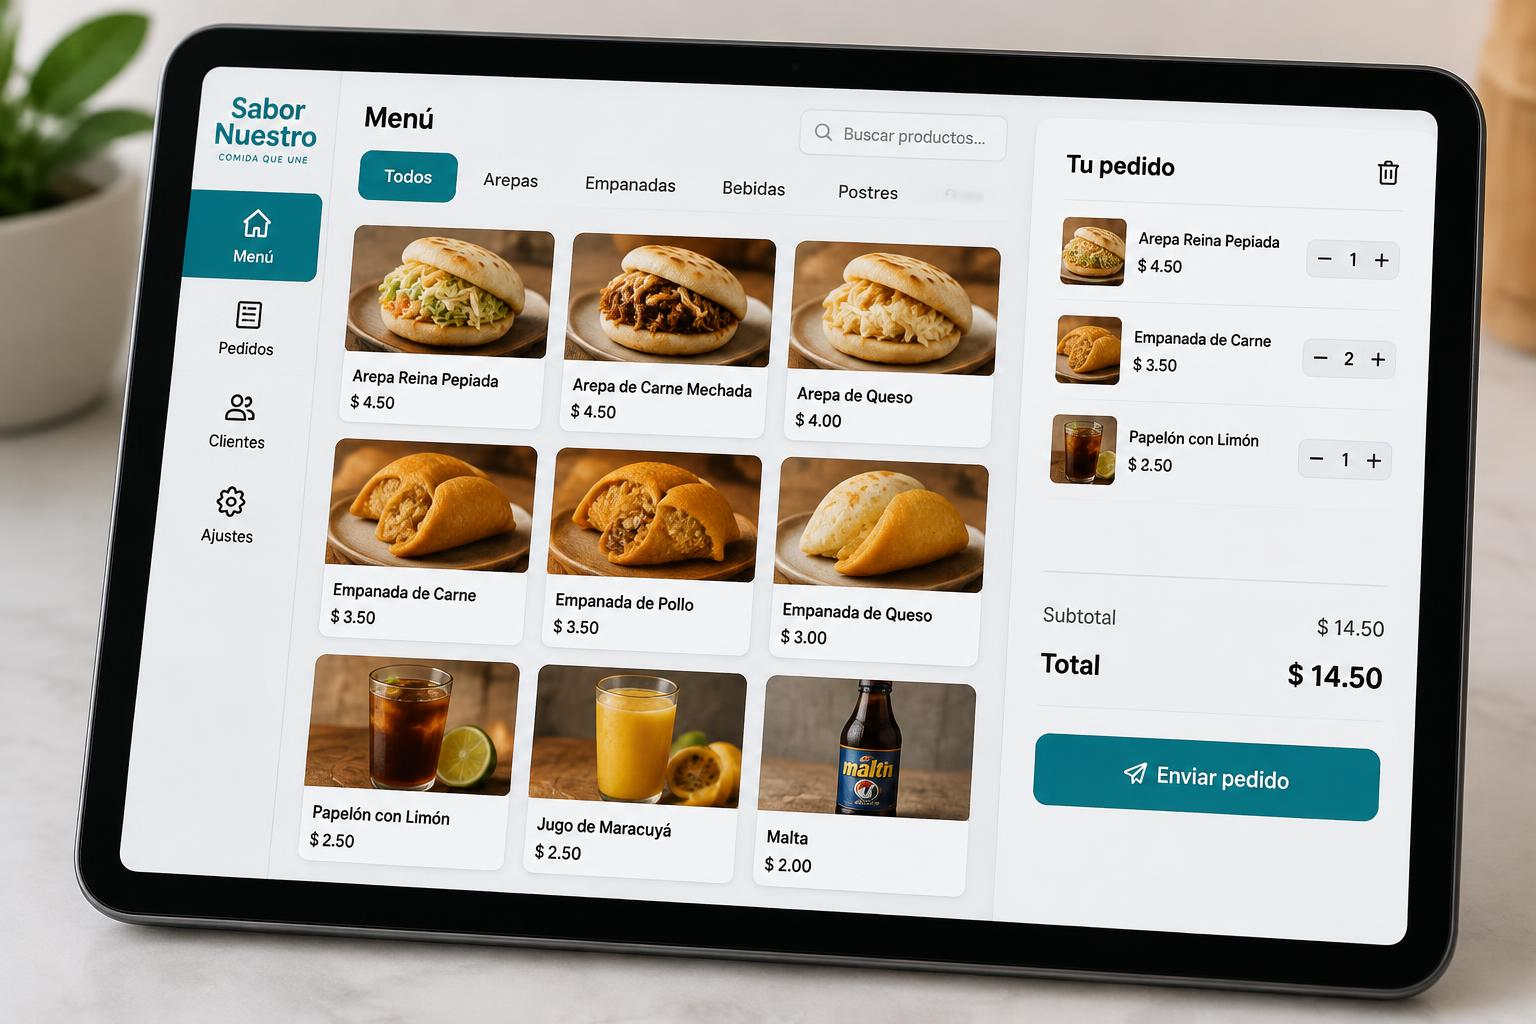
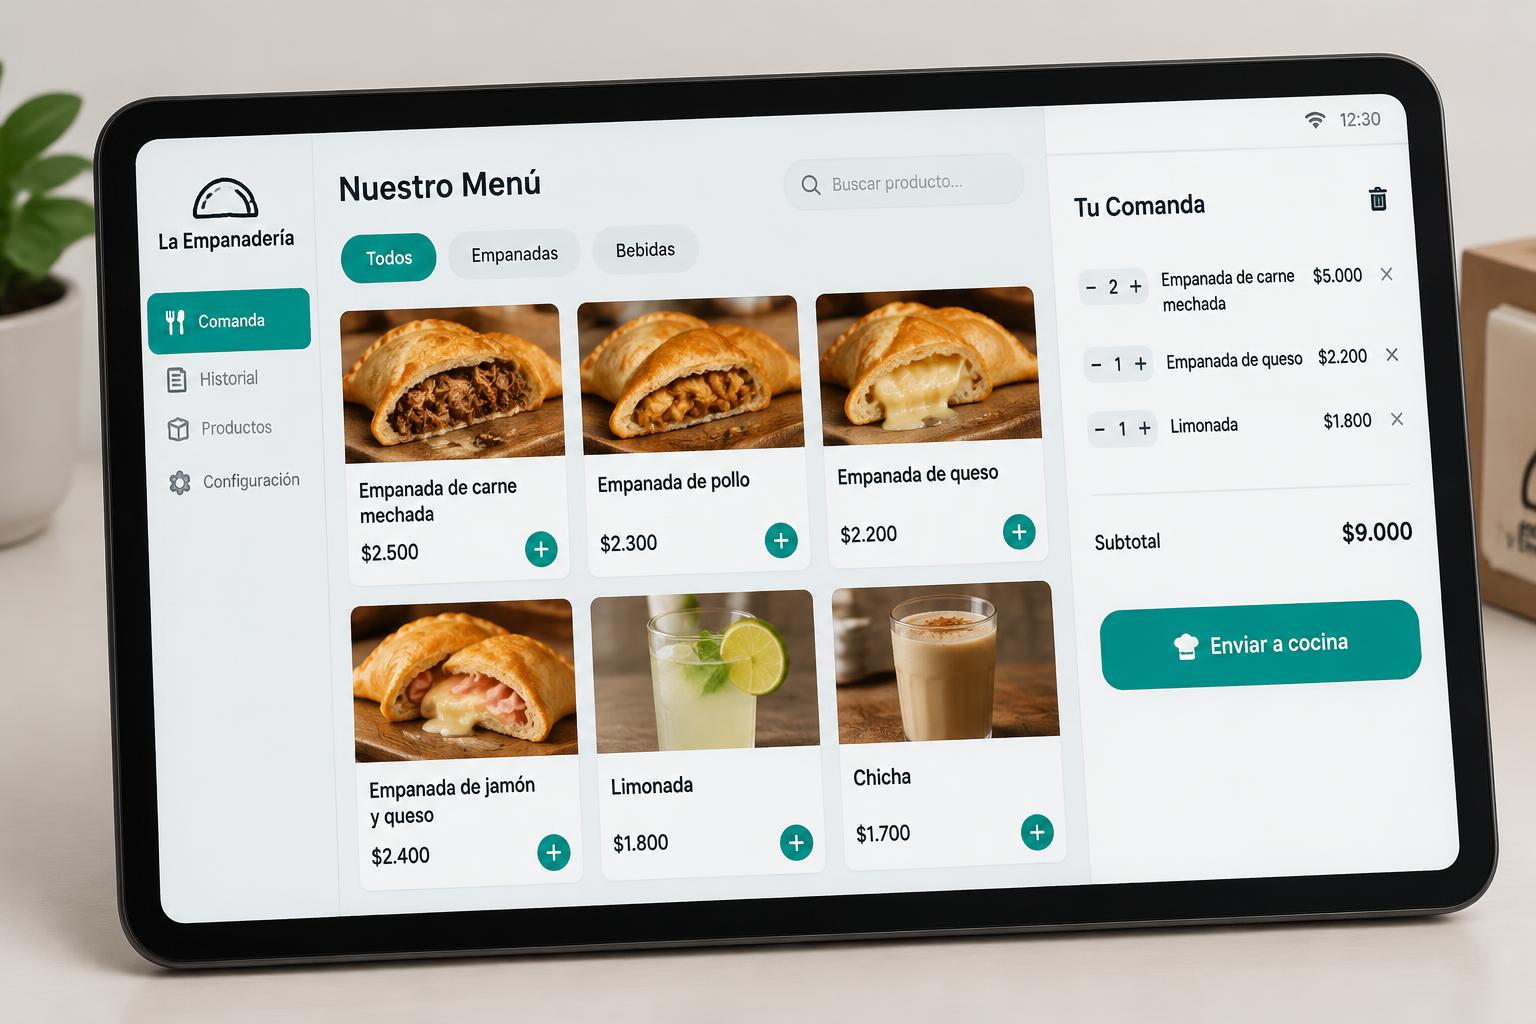
Switch examples to empanadas with filling sub-recipes, add kitchen kanban and event planning focus

diff --git a/src/lib/i18n.ts b/src/lib/i18n.ts
@@ -4,14 +4,14 @@ export const isLang = (v: string): v is Lang => (LANGS as readonly string[]).inc
 
 const es = {
   meta: {
-    title: "listo.menu — Pedidos, inventario y recetas para food trucks y kioscos",
-    description: "Toma pedidos rápido, descuenta inventario automáticamente por receta y planifica tus compras. Hecho para food trucks, arepas y kioscos.",
+    title: "listo.menu — Comandas, cocina, inventario y compras para negocios de comida",
+    description: "Lleva la comanda, organiza la cocina en un tablero, descuenta inventario por receta y sabe qué comprar para tus ventas y eventos. Para food trucks, empanaderías y kioscos.",
   },
   nav: { whatsapp: "Hablar por WhatsApp", lang: "English", langCode: "en" as Lang },
   hero: {
-    eyebrow: "Para food trucks, areperas y kioscos",
-    title: "Tus pedidos, tu inventario y tus recetas en un solo lugar",
-    body: "Vende, y listo.menu descuenta del inventario cada ingrediente que usaste. Sabe cuánto te queda, cuánto te cuesta cada plato y qué comprar mañana.",
+    eyebrow: "Para food trucks, empanaderías y kioscos",
+    title: "De la comanda a la cocina, y sabiendo qué comprar",
+    body: "Lleva tus órdenes de venta, mándalas a un tablero de cocina y deja que listo.menu descuente del inventario cada ingrediente usado. Y lo más importante: planifica tus ventas y eventos sabiendo exactamente qué y cuánto comprar.",
     cta: "Quiero una demo por WhatsApp",
     email: "¿Prefieres correo? Escríbenos",
     note: "Respuesta el mismo día · Sin compromiso",
@@ -19,43 +19,51 @@ const es = {
   pains: {
     title: "¿Te suena familiar?",
     items: [
-      { t: "Se acabó el queso en plena hora pico", d: "Nadie sabía cuánto quedaba hasta que fue tarde." },
-      { t: "Compras “a ojo”", d: "Unos días sobra y se pierde; otros días falta y dejas de vender." },
+      { t: "Se acabó el relleno en plena hora pico", d: "Nadie sabía cuánta carne mechada quedaba hasta que fue tarde." },
+      { t: "Compras “a ojo” para el evento", d: "Una feria el sábado y no sabes cuánta carne, harina o queso comprar. O sobra, o falta." },
       { t: "No sabes cuánto ganas por plato", d: "El precio sube, el costo cambia y la cuenta no cuadra." },
     ],
   },
   how: {
     title: "Cómo funciona",
     steps: [
-      { t: "Registra tus insumos", d: "Harina, queso, pollo, salsas, empaques: todo lo que usas es inventario." },
-      { t: "Une cada producto a su receta", d: "Una arepa reina pepiada usa 120 g de harina, 80 g de pollo, 50 g de aguacate." },
-      { t: "Vende y olvídate", d: "Cada pedido descuenta automáticamente lo consumido. Ves tu stock real en todo momento." },
+      { t: "Registra tus insumos", d: "Harina, carne, pollo, queso, ajo, empaques: todo lo que usas es inventario." },
+      { t: "Une cada producto a su receta", d: "Una empanada de carne mechada lleva 60 g de masa y 50 g de relleno. Y el relleno tiene su propia receta: carne, cebolla, pimentón y ajo." },
+      { t: "Toma la comanda y cocina", d: "Cada orden llega al tablero de cocina y descuenta automáticamente lo consumido. Ves tu stock real en todo momento." },
     ],
   },
   features: {
     title: "Todo lo que tu negocio necesita para servir sin parar",
     items: [
-      { t: "Pedidos en segundos", d: "Pantalla rápida de toma de pedidos con cambios por unidad: sin cebolla, extra queso." },
-      { t: "Pantalla de cocina", d: "La cocina ve cada plato a preparar, incluso los que vienen dentro de un combo." },
+      { t: "Comandas en segundos", d: "Lleva las órdenes de venta con cambios por unidad: sin cebolla, extra queso, para llevar." },
+      { t: "Cocina en tablero (kanban)", d: "Cada ítem de la orden es una tarjeta que avanza: pendiente, en preparación, listo." },
       { t: "Inventario automático", d: "El stock se descuenta por receta con cada venta o preparación, con lotes y fechas." },
       { t: "Costo y ganancia por plato", d: "La receta calcula el costo; tú ves precio, ganancia y margen." },
-      { t: "Combos sin enredos", d: "Un combo es un producto hecho de otros productos. Cambia lo que quieras dentro." },
+      { t: "Recetas dentro de recetas", d: "Rellenos, salsas y masas son preparaciones con su propia receta. Combos también." },
       { t: "Funciona sin internet", d: "Si se cae la conexión, los pedidos se guardan y se sincronizan al volver." },
     ],
   },
+  kitchen: {
+    eyebrow: "Cocina",
+    title: "Tu cocina en un tablero, ítem por ítem",
+    body: "Cada orden se divide en sus ítems y cada uno avanza por columnas. La cocina ve trabajo, no combos.",
+    cols: ["Pendiente", "En preparación", "Listo"],
+    cards: [["#14 · 2× Empanada de carne mechada", "#15 · 1× Empanada de queso"], ["#13 · 3× Empanada de pollo · sin cebolla"], ["#12 · 1× Empanada de carne mechada"]],
+  },
   plan: {
-    eyebrow: "Plan de producción",
-    title: "Dinos cuánto vas a vender y te decimos qué comprar",
-    body: "Ingresa cuántas unidades planeas preparar y listo.menu calcula, con tus recetas, la cantidad exacta de ingredientes que necesitas. Pruébalo:",
-    products: { reina: "Arepa reina pepiada", cheese: "Arepa de queso", empanada: "Empanada de carne" },
-    ingredients: { flour: "Harina de maíz", chicken: "Pollo", avocado: "Aguacate", cheese: "Queso", beef: "Carne molida", oil: "Aceite" },
+    eyebrow: "Plan de producción · Lo más importante",
+    title: "Planifica tus ventas y eventos: sabe qué comprar y cuánto",
+    body: "¿Feria el sábado o la semana de quincena? Ingresa cuántas empanadas planeas vender y listo.menu recorre tus recetas —incluido el relleno— y te da la lista exacta de compras. Pruébalo:",
+    products: { beef: "Empanada de carne mechada", chicken: "Empanada de pollo", cheese: "Empanada de queso" },
+    ingredients: { flour: "Harina", oil: "Aceite", beef: "Carne de res", onion: "Cebolla", pepper: "Pimentón", garlic: "Ajo", chicken: "Pollo", cheese: "Queso" },
+    note: "Incluye la masa y los rellenos: la carne mechada lleva carne, cebolla, pimentón y ajo.",
     units: "unidades",
     list: "Lista de compras",
     empty: "Agrega cantidades para ver tu lista.",
   },
   who: {
     title: "Hecho para negocios de comida pequeños y rápidos",
-    items: ["Food trucks", "Areperas y kioscos", "Comida callejera", "Restaurantes pequeños", "Cocinas ocultas", "Ferias y eventos"],
+    items: ["Food trucks", "Empanaderías y kioscos", "Comida callejera", "Restaurantes pequeños", "Cocinas ocultas", "Ferias y eventos"],
   },
   pricing: {
     title: "Planes simples, sin sorpresas",
@@ -75,6 +83,7 @@ const es = {
       { q: "¿Necesito comprar equipos especiales?", a: "No. Funciona en el celular, tablet o computador que ya tienes, desde el navegador." },
       { q: "¿Qué pasa si se va el internet?", a: "Sigues tomando pedidos. Se guardan en el dispositivo y se sincronizan cuando vuelve la conexión." },
       { q: "¿Puedo vender aunque el stock esté en cero?", a: "Sí. listo.menu te avisa, deja vender y luego ajustas el inventario." },
+      { q: "¿Sirve para planear un evento o feria?", a: "Sí. Ingresas cuánto esperas vender y obtienes la lista de ingredientes a comprar, según tus recetas." },
       { q: "¿Me ayudan a cargar mis recetas?", a: "Sí, te acompañamos en la configuración inicial por WhatsApp." },
     ],
   },
@@ -86,21 +95,21 @@ const es = {
     subject: "Quiero conocer listo.menu",
     body: "Hola, tengo un negocio de comida y quiero conocer listo.menu.\n\nNombre del negocio:\nCiudad:\nTipo de negocio:",
   },
-  alt: { orders: "Pantalla de toma de pedidos de listo.menu", inventory: "Inventario de ingredientes en listo.menu", truck: "Dueño de un food truck de arepas usando una tablet" },
+  alt: { orders: "Pantalla de toma de pedidos de listo.menu", inventory: "Inventario de ingredientes en listo.menu", truck: "Dueña de un puesto de empanadas usando una tablet en una feria" },
 };
 
 export type Dict = typeof es;
 
 const en: Dict = {
   meta: {
-    title: "listo.menu — Orders, inventory and recipes for food trucks and kiosks",
-    description: "Take orders fast, deduct inventory automatically by recipe and plan your purchases. Built for food trucks, arepa stands and kiosks.",
+    title: "listo.menu — Orders, kitchen board, inventory and purchasing for food businesses",
+    description: "Take orders, run the kitchen on a board, deduct inventory by recipe and know what to buy for your sales and events. For food trucks, empanada stands and kiosks.",
   },
   nav: { whatsapp: "Chat on WhatsApp", lang: "Español", langCode: "es" },
   hero: {
-    eyebrow: "For food trucks, arepa stands and kiosks",
-    title: "Your orders, stock and recipes in one place",
-    body: "Sell, and listo.menu deducts every ingredient you used from inventory. Know what's left, what each dish costs and what to buy tomorrow.",
+    eyebrow: "For food trucks, empanada stands and kiosks",
+    title: "From order ticket to kitchen, knowing what to buy",
+    body: "Take sales orders, send them to a kitchen board and let listo.menu deduct every ingredient used from inventory. Most importantly: plan your sales and events knowing exactly what and how much to buy.",
     cta: "Get a demo on WhatsApp",
     email: "Prefer email? Write to us",
     note: "Same-day reply · No commitment",
@@ -108,43 +117,51 @@ const en: Dict = {
   pains: {
     title: "Sound familiar?",
     items: [
-      { t: "Out of cheese at rush hour", d: "Nobody knew how much was left until it was too late." },
-      { t: "Buying by gut feeling", d: "Some days it goes to waste; other days you run out and lose sales." },
+      { t: "Out of filling at rush hour", d: "Nobody knew how much shredded beef was left until it was too late." },
+      { t: "Guessing purchases for an event", d: "A fair on Saturday and no idea how much beef, flour or cheese to buy." },
       { t: "No idea what each dish earns", d: "Prices rise, costs change and the numbers never add up." },
     ],
   },
   how: {
     title: "How it works",
     steps: [
-      { t: "Add your supplies", d: "Flour, cheese, chicken, sauces, packaging: everything you use is inventory." },
-      { t: "Link each product to a recipe", d: "A chicken-avocado arepa uses 120 g flour, 80 g chicken, 50 g avocado." },
-      { t: "Sell and relax", d: "Each order automatically deducts what was used. Your real stock, always." },
+      { t: "Add your supplies", d: "Flour, beef, chicken, cheese, garlic, packaging: everything you use is inventory." },
+      { t: "Link each product to a recipe", d: "A shredded-beef empanada uses 60 g dough and 50 g filling. The filling has its own recipe: beef, onion, pepper and garlic." },
+      { t: "Take the order and cook", d: "Each order lands on the kitchen board and deducts what was used. Your real stock, always." },
     ],
   },
   features: {
     title: "Everything your business needs to keep serving",
     items: [
-      { t: "Orders in seconds", d: "A fast order screen with per-unit changes: no onion, extra cheese." },
-      { t: "Kitchen screen", d: "The kitchen sees every dish to prepare, even those inside a combo." },
+      { t: "Orders in seconds", d: "Take sales orders with per-unit changes: no onion, extra cheese, to go." },
+      { t: "Kitchen kanban board", d: "Each order item is a card that moves: to do, cooking, ready." },
       { t: "Automatic inventory", d: "Stock is deducted by recipe on every sale or prep, with dated batches." },
       { t: "Cost and profit per dish", d: "Recipes compute cost; you see price, profit and margin." },
-      { t: "Combos made simple", d: "A combo is a product made of other products. Change anything inside." },
+      { t: "Recipes inside recipes", d: "Fillings, sauces and doughs are preparations with their own recipe. Combos too." },
       { t: "Works offline", d: "If the connection drops, orders are saved and synced when it's back." },
     ],
   },
+  kitchen: {
+    eyebrow: "Kitchen",
+    title: "Your kitchen on a board, item by item",
+    body: "Each order splits into its items and each one moves across columns. The kitchen sees work, not combos.",
+    cols: ["To do", "Cooking", "Ready"],
+    cards: [["#14 · 2× Shredded-beef empanada", "#15 · 1× Cheese empanada"], ["#13 · 3× Chicken empanada · no onion"], ["#12 · 1× Shredded-beef empanada"]],
+  },
   plan: {
-    eyebrow: "Production plan",
-    title: "Tell us what you'll sell, we'll tell you what to buy",
-    body: "Enter how many units you plan to make and listo.menu uses your recipes to calculate the exact ingredients you need. Try it:",
-    products: { reina: "Chicken-avocado arepa", cheese: "Cheese arepa", empanada: "Beef empanada" },
-    ingredients: { flour: "Corn flour", chicken: "Chicken", avocado: "Avocado", cheese: "Cheese", beef: "Ground beef", oil: "Oil" },
+    eyebrow: "Production plan · The most important part",
+    title: "Plan your sales and events: know what and how much to buy",
+    body: "A fair on Saturday or a busy payday week? Enter how many empanadas you expect to sell and listo.menu walks your recipes — fillings included — to give you the exact shopping list. Try it:",
+    products: { beef: "Shredded-beef empanada", chicken: "Chicken empanada", cheese: "Cheese empanada" },
+    ingredients: { flour: "Flour", oil: "Oil", beef: "Beef", onion: "Onion", pepper: "Bell pepper", garlic: "Garlic", chicken: "Chicken", cheese: "Cheese" },
+    note: "Includes dough and fillings: shredded beef needs beef, onion, pepper and garlic.",
     units: "units",
     list: "Shopping list",
     empty: "Add quantities to see your list.",
   },
   who: {
     title: "Built for small, fast food businesses",
-    items: ["Food trucks", "Arepa stands & kiosks", "Street food", "Small restaurants", "Ghost kitchens", "Fairs & events"],
+    items: ["Food trucks", "Empanada stands & kiosks", "Street food", "Small restaurants", "Ghost kitchens", "Fairs & events"],
   },
   pricing: {
     title: "Simple plans, no surprises",
@@ -164,6 +181,7 @@ const en: Dict = {
       { q: "Do I need special hardware?", a: "No. It runs in the browser on the phone, tablet or computer you already have." },
       { q: "What if the internet goes down?", a: "Keep taking orders. They're stored on the device and synced when you're back online." },
       { q: "Can I sell when stock is at zero?", a: "Yes. listo.menu warns you, lets the sale through, and you reconcile later." },
+      { q: "Can I use it to plan an event or fair?", a: "Yes. Enter how much you expect to sell and get the ingredient shopping list from your recipes." },
       { q: "Will you help me load my recipes?", a: "Yes, we guide your initial setup over WhatsApp." },
     ],
   },
@@ -175,7 +193,7 @@ const en: Dict = {
     subject: "I'd like to learn about listo.menu",
     body: "Hi, I run a food business and I'd like to learn about listo.menu.\n\nBusiness name:\nCity:\nType of business:",
   },
-  alt: { orders: "listo.menu order-taking screen", inventory: "Ingredient inventory in listo.menu", truck: "Arepa food truck owner using a tablet" },
+  alt: { orders: "listo.menu order-taking screen", inventory: "Ingredient inventory in listo.menu", truck: "Empanada stand owner using a tablet at a street fair" },
 };
 
 export const dict: Record<Lang, Dict> = { es, en };

diff --git a/src/lib/production.ts b/src/lib/production.ts
@@ -1,35 +1,64 @@
 export type Unit = "kg" | "L" | "u";
+/** A recipe line uses a raw ingredient or another preparation (sub-recipe), e.g. a filling. */
 export interface RecipeLine { ingredient: string; qty: number; unit: Unit }
 export interface DemoProduct { id: string; recipe: RecipeLine[] }
 
+/** Preparations: recipe per 1 kg of result. */
+export const PREPARATIONS: Record<string, RecipeLine[]> = {
+  dough: [
+    { ingredient: "flour", qty: 0.6, unit: "kg" },
+    { ingredient: "oil", qty: 0.05, unit: "L" },
+  ],
+  shreddedBeef: [
+    { ingredient: "beef", qty: 0.8, unit: "kg" },
+    { ingredient: "onion", qty: 0.15, unit: "kg" },
+    { ingredient: "pepper", qty: 0.1, unit: "kg" },
+    { ingredient: "garlic", qty: 0.02, unit: "kg" },
+  ],
+  shreddedChicken: [
+    { ingredient: "chicken", qty: 0.85, unit: "kg" },
+    { ingredient: "onion", qty: 0.12, unit: "kg" },
+    { ingredient: "garlic", qty: 0.02, unit: "kg" },
+  ],
+};
+
 export const DEMO_PRODUCTS: DemoProduct[] = [
-  { id: "reina", recipe: [
-    { ingredient: "flour", qty: 0.12, unit: "kg" },
-    { ingredient: "chicken", qty: 0.08, unit: "kg" },
-    { ingredient: "avocado", qty: 0.05, unit: "kg" },
+  { id: "beef", recipe: [
+    { ingredient: "dough", qty: 0.06, unit: "kg" },
+    { ingredient: "shreddedBeef", qty: 0.05, unit: "kg" },
+  ] },
+  { id: "chicken", recipe: [
+    { ingredient: "dough", qty: 0.06, unit: "kg" },
+    { ingredient: "shreddedChicken", qty: 0.05, unit: "kg" },
   ] },
   { id: "cheese", recipe: [
-    { ingredient: "flour", qty: 0.12, unit: "kg" },
-    { ingredient: "cheese", qty: 0.07, unit: "kg" },
-  ] },
-  { id: "empanada", recipe: [
-    { ingredient: "flour", qty: 0.06, unit: "kg" },
-    { ingredient: "beef", qty: 0.05, unit: "kg" },
-    { ingredient: "oil", qty: 0.02, unit: "L" },
+    { ingredient: "dough", qty: 0.06, unit: "kg" },
+    { ingredient: "cheese", qty: 0.04, unit: "kg" },
   ] },
 ];
 
-/** Sum each ingredient across planned quantities: qty per unit × planned units. */
-export function ingredientNeeds(products: DemoProduct[], plan: Record<string, number>) {
+const round = (n: number) => Math.round(n * 1000) / 1000;
+
+/** Expand recipes (including sub-recipes) into raw ingredient totals for planned units. */
+export function ingredientNeeds(
+  products: DemoProduct[],
+  plan: Record<string, number>,
+  preps: Record<string, RecipeLine[]> = PREPARATIONS,
+) {
   const totals = new Map<string, { ingredient: string; qty: number; unit: Unit }>();
+  const add = (line: RecipeLine, factor: number) => {
+    const sub = preps[line.ingredient];
+    if (sub) {
+      for (const s of sub) add(s, factor * line.qty);
+      return;
+    }
+    const cur = totals.get(line.ingredient) ?? { ingredient: line.ingredient, qty: 0, unit: line.unit };
+    cur.qty += line.qty * factor;
+    totals.set(line.ingredient, cur);
+  };
   for (const p of products) {
     const n = Math.max(0, plan[p.id] ?? 0);
-    if (!n) continue;
-    for (const l of p.recipe) {
-      const cur = totals.get(l.ingredient) ?? { ingredient: l.ingredient, qty: 0, unit: l.unit };
-      cur.qty = Math.round((cur.qty + l.qty * n) * 1000) / 1000;
-      totals.set(l.ingredient, cur);
-    }
+    if (n) for (const l of p.recipe) add(l, n);
   }
-  return [...totals.values()];
+  return [...totals.values()].map((t) => ({ ...t, qty: round(t.qty) }));
 }

diff --git a/src/components/landing/Landing.tsx b/src/components/landing/Landing.tsx
@@ -33,6 +33,7 @@ export function Landing({ lang }: { lang: Lang }) {
         <Pains lang={lang} />
         <How lang={lang} />
         <Features lang={lang} />
+        <Kitchen lang={lang} />
         <ProductionPlan lang={lang} />
         <Who lang={lang} />
         <Pricing lang={lang} />
@@ -108,8 +109,8 @@ function Hero({ lang }: { lang: Lang }) {
           <div className="absolute -bottom-6 left-4 hidden items-center gap-3 rounded-xl border border-border bg-card p-4 shadow-panel sm:flex">
             <span className="flex size-10 items-center justify-center rounded-lg bg-success-surface text-success"><Check className="size-5" /></span>
             <div className="text-sm">
-              <p className="font-display font-bold">−120 g {dict[lang].plan.ingredients.flour}</p>
-              <p className="text-muted-foreground">−80 g {dict[lang].plan.ingredients.chicken}</p>
+              <p className="font-display font-bold">−40 g {dict[lang].plan.ingredients.beef}</p>
+              <p className="text-muted-foreground">−1 g {dict[lang].plan.ingredients.garlic}</p>
             </div>
           </div>
         </div>
@@ -204,7 +205,7 @@ function fmt(qty: number, unit: string, lang: Lang) {
 
 function ProductionPlan({ lang }: { lang: Lang }) {
   const t = dict[lang].plan;
-  const [plan, setPlan] = useState<Record<string, number>>({ reina: 40, cheese: 25, empanada: 30 });
+  const [plan, setPlan] = useState<Record<string, number>>({ beef: 120, chicken: 80, cheese: 50 });
   const needs = ingredientNeeds(DEMO_PRODUCTS, plan);
   return (
     <section className="bg-primary-surface">
@@ -241,6 +242,7 @@ function ProductionPlan({ lang }: { lang: Lang }) {
                 ))}
               </ul>
             )}
+            <p className="mt-4 text-sm text-muted-foreground">{t.note}</p>
           </div>
         </div>
       </div>
@@ -340,6 +342,29 @@ function Final({ lang }: { lang: Lang }) {
             <Mail className="size-4" /> {t.email}
           </EmailLink>
         </div>
+      </div>
+    </section>
+  );
+}
+
+function Kitchen({ lang }: { lang: Lang }) {
+  const t = dict[lang].kitchen;
+  const tones = ["bg-warning-surface text-warning", "bg-primary-surface text-primary", "bg-success-surface text-success"];
+  return (
+    <section className={`${wrap} pb-12 lg:pb-20`}>
+      <SectionTitle eyebrow={t.eyebrow} title={t.title} sub={t.body} />
+      <div className="grid gap-4 overflow-x-auto md:grid-cols-3">
+        {t.cols.map((c, i) => (
+          <div key={c} className="flex min-h-48 flex-col gap-2 rounded-xl border border-border bg-muted p-4">
+            <div className="mb-2 flex items-center justify-between">
+              <h3 className="font-bold">{c}</h3>
+              <span className={`rounded-full px-2 py-0.5 text-xs font-bold ${tones[i] ?? ""}`}>{t.cards[i]?.length ?? 0}</span>
+            </div>
+            {(t.cards[i] ?? []).map((card) => (
+              <div key={card} className="rounded-lg border border-border bg-card p-3 text-sm font-semibold shadow-panel">{card}</div>
+            ))}
+          </div>
+        ))}
       </div>
     </section>
   );

diff --git a/src/lib/landing.test.ts b/src/lib/landing.test.ts
@@ -16,10 +16,16 @@ describe("whatsapp link", () => {
 });
 
 describe("production plan", () => {
-  it("multiplies recipe amounts by planned units and sums shared ingredients", () => {
-    const needs = ingredientNeeds(DEMO_PRODUCTS, { reina: 10, cheese: 5, empanada: 0 });
-    expect(needs.find((n) => n.ingredient === "flour")?.qty).toBe(1.8);
-    expect(needs.find((n) => n.ingredient === "cheese")?.qty).toBe(0.35);
-    expect(needs.find((n) => n.ingredient === "beef")).toBeUndefined();
+  it("expands the shredded-beef filling into beef, onion and garlic", () => {
+    // 100 beef empanadas × 0.05 kg filling = 5 kg filling → 4 kg beef, 0.1 kg garlic
+    const needs = ingredientNeeds(DEMO_PRODUCTS, { beef: 100 });
+    expect(needs.find((n) => n.ingredient === "beef")?.qty).toBe(4);
+    expect(needs.find((n) => n.ingredient === "garlic")?.qty).toBe(0.1);
+  });
+  it("sums dough flour across all empanadas", () => {
+    // (10 + 10) × 0.06 kg dough × 0.6 kg flour = 0.72 kg
+    const needs = ingredientNeeds(DEMO_PRODUCTS, { beef: 10, cheese: 10 });
+    expect(needs.find((n) => n.ingredient === "flour")?.qty).toBe(0.72);
+    expect(needs.find((n) => n.ingredient === "chicken")).toBeUndefined();
   });
 });
